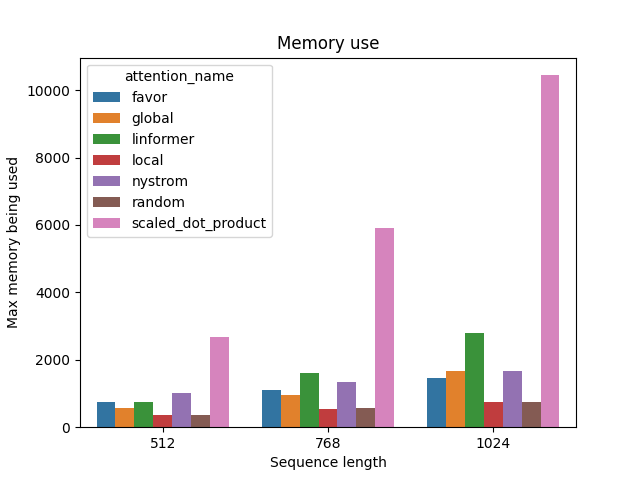
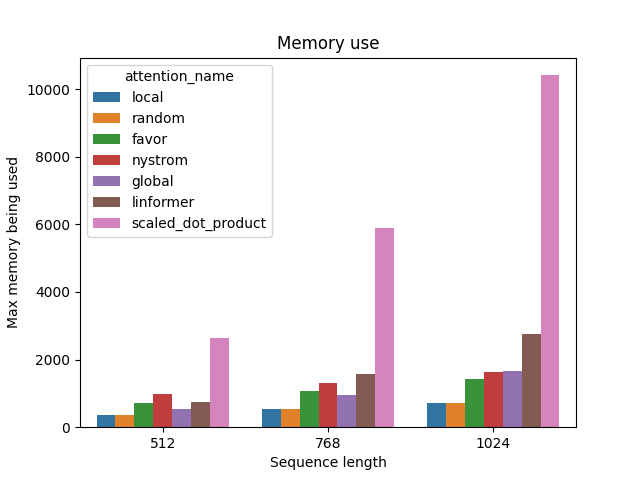
[feat] sorted scores in the benchmark plots #108

diff --git a/benchmarks/benchmark_encoder.py b/benchmarks/benchmark_encoder.py
@@ -238,7 +238,6 @@ def instantiate_xformer(
 
 def plot(args, results: List[Dict[str, Any]]):
     df = pd.DataFrame(results)
-
     HEADS = args.heads[-1]
     AMP = args.pytorch_amp[-1]
     EMB = args.embedding_dim[-1]
@@ -255,6 +254,9 @@ def plot(args, results: List[Dict[str, Any]]):
         & (df["batch_size"] == BATCH_SIZE)
     ]
 
+    df_filtered.sort_values(
+        by=["sequence_length", "max_memory"], ascending=[False, True], inplace=True
+    )
     sns.barplot(
         x="sequence_length", y="max_memory", hue="attention_name", data=df_filtered
     )
@@ -264,6 +266,9 @@ def plot(args, results: List[Dict[str, Any]]):
     plt.savefig("memory_vs_attention.png")
     plt.clf()
 
+    df_filtered.sort_values(
+        by=["sequence_length", "run_time"], ascending=[False, True], inplace=True
+    )
     sns.barplot(
         x="sequence_length", y="run_time", hue="attention_name", data=df_filtered
     )
